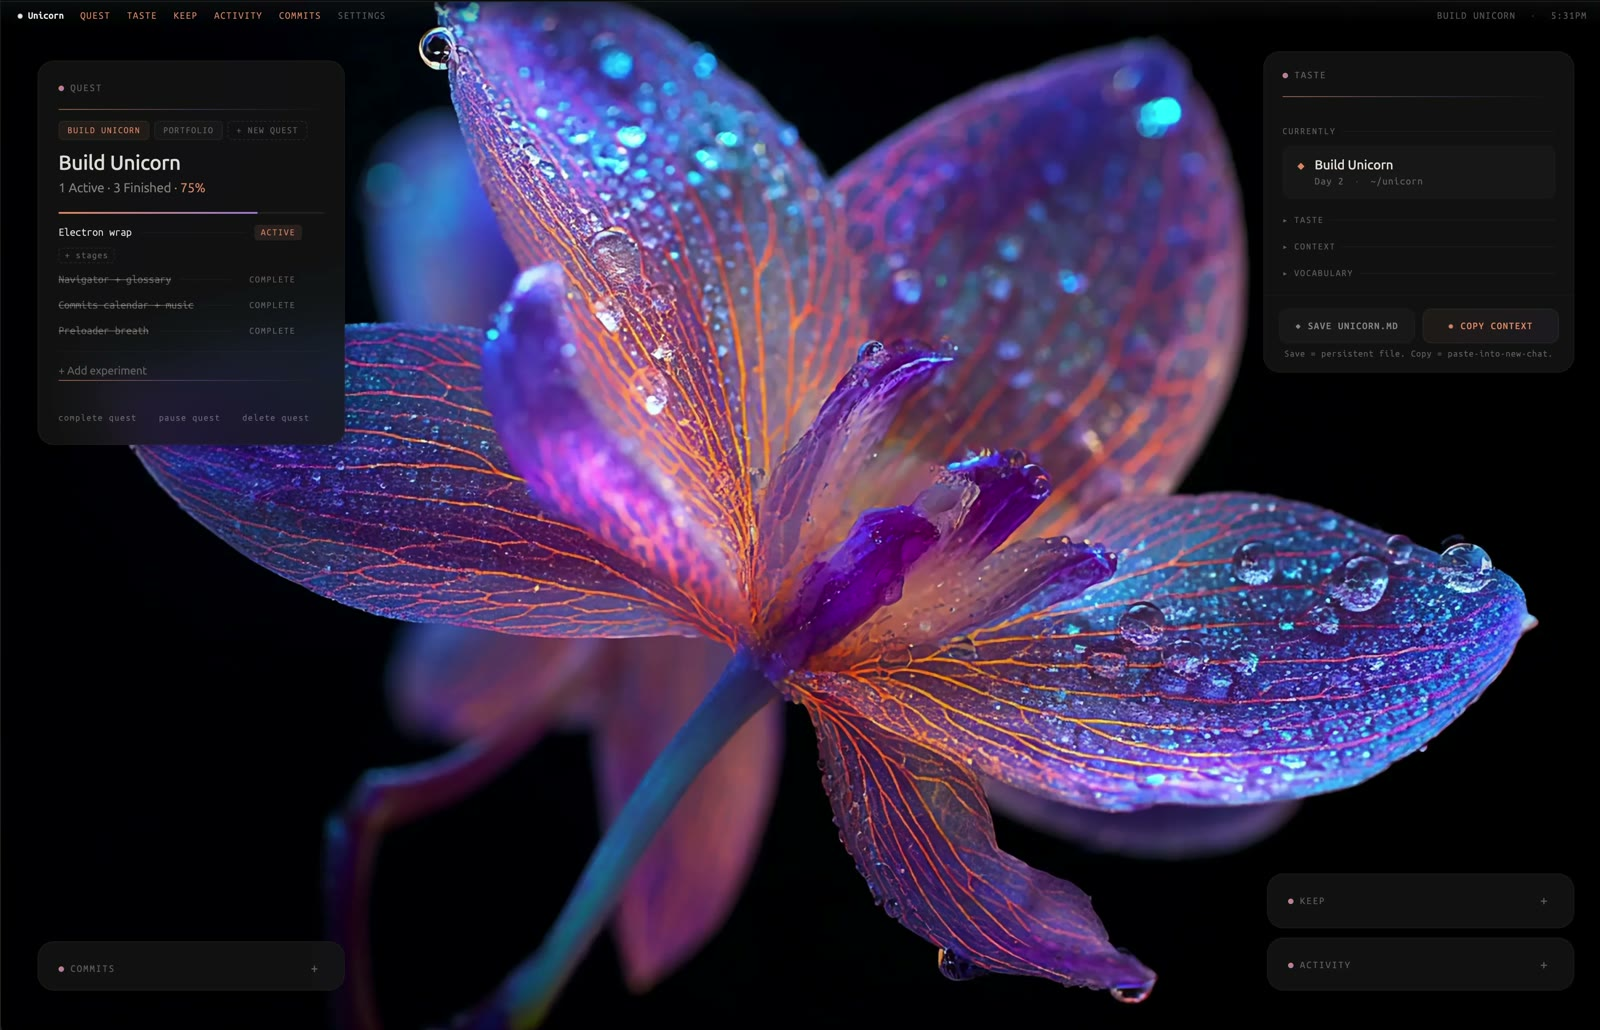
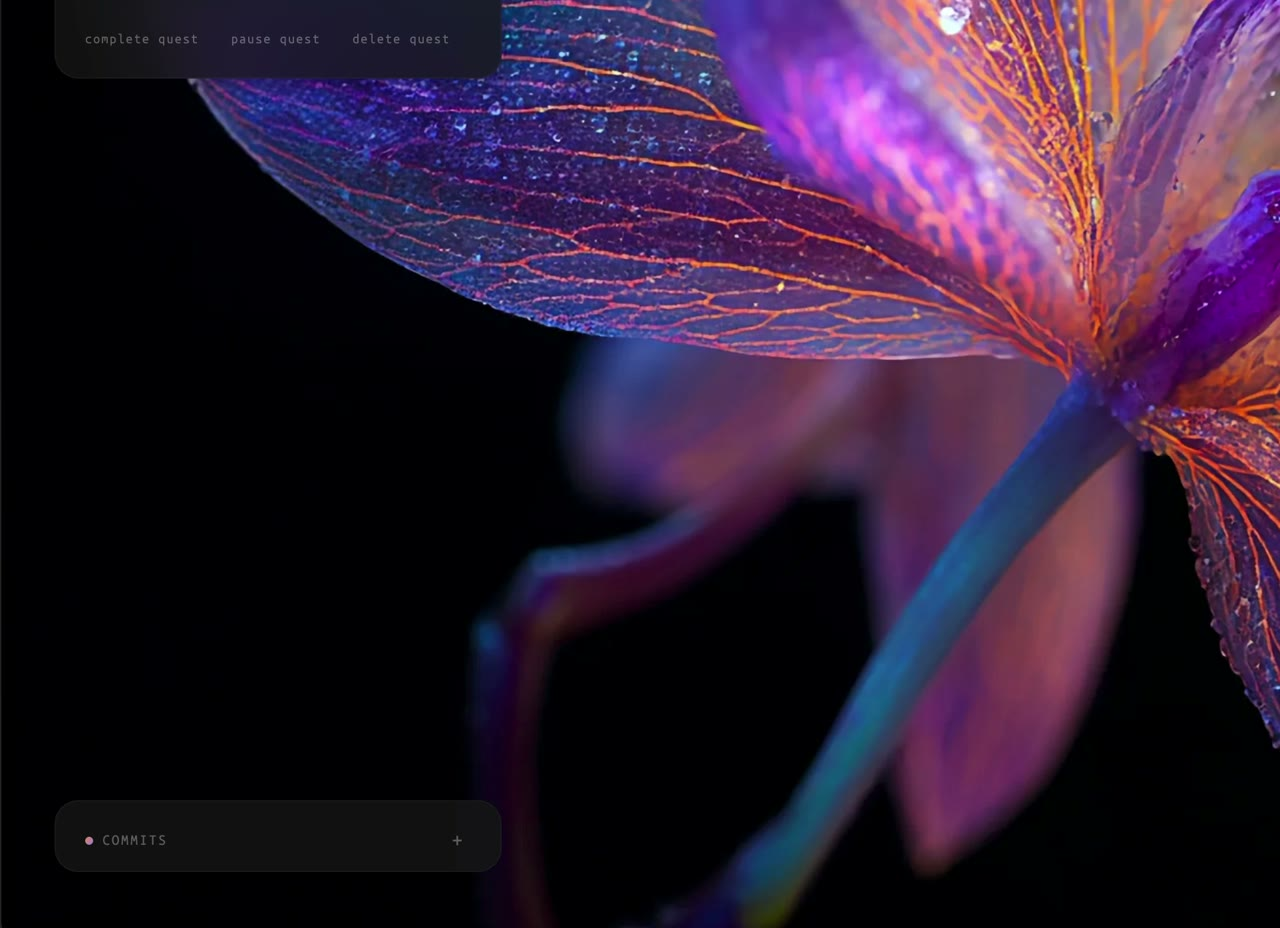
✢ Deck slides 1-8: arrow hint slide-1 only (both arrows), tighter slide-1/2 spacing, slide-2 video reframed + gradient clause, slide-3 audio toggle, slide-4/5 image crops, slide-7 eyebrow to top + image zoomed out, slide-8 keep clip recut (bottom-left, first 3s trimmed)

diff --git a/deck/index.html b/deck/index.html
@@ -105,10 +105,17 @@
   .reveal .progress{ color:var(--peach); height:3px; }
   .reveal .slide-number{ background:transparent!important; color:var(--t3);
        font-family:var(--f); font-size:13px; right:26px; bottom:20px; }
-  .kbd{ position:fixed; left:0; right:0; bottom:18px; text-align:center; z-index:40;
-        font-family:var(--f); font-size:12px; letter-spacing:0.22em; text-transform:uppercase;
-        color:var(--t3); pointer-events:none; }
-  .kbd span{ color:var(--peach); }
+  .kbd{ font-family:var(--f); font-size:13px; letter-spacing:0.22em; text-transform:uppercase;
+        color:var(--t3); margin:10px 0 0; }
+  .kbd .a{ color:var(--peach); }
+  .reveal .slides > section:first-child .s{ gap:26px; }
+  .reveal .slides > section:first-child .px{ margin-bottom:16px; }
+  .reveal .slides > section:nth-child(2) .s{ gap:34px; }
+  .snd{ position:absolute; right:14px; bottom:14px; z-index:4; display:inline-flex; align-items:center;
+        gap:7px; padding:9px 15px; border:0; border-radius:100px; cursor:pointer;
+        background:var(--glow); color:#140f1c; font-family:var(--f);
+        font-size:10px; font-weight:700; text-transform:uppercase; letter-spacing:0.16em; }
+  .snd svg{ width:13px; height:13px; display:block; }
 
   @media print{
     html,body,.reveal,.reveal .slides{ background:var(--void)!important; }
@@ -120,7 +127,7 @@
       width:100%!important; min-height:760px!important; page-break-after:always; break-after:page;
       -webkit-print-color-adjust:exact!important; print-color-adjust:exact!important; }
     .m::after{ display:none!important; }
-    .reveal .progress,.reveal .backgrounds,.reveal .slide-number,.kbd{ display:none!important; }
+    .reveal .progress,.reveal .backgrounds,.reveal .slide-number,.kbd,.snd{ display:none!important; }
   }
 </style>
 </head>
@@ -138,6 +145,7 @@
       <h1>Unicorn</h1>
       <p class="lede">A creative OS for designers experimenting with code. It runs beside Claude&nbsp;Code and holds the reasoning around your work, so it does not <em>evaporate</em>.</p>
       <p class="foot">Ivy Grzybowski &nbsp;·&nbsp; Design Technologist &nbsp;·&nbsp; capstone</p>
+      <p class="kbd"><span class="a">&larr;</span> use your arrow keys <span class="a">&rarr;</span></p>
     </div>
   </section>
 
@@ -145,8 +153,8 @@
   <section>
     <div class="s">
       <p class="wq acc">✷ the hook</p>
-      <figure class="m" style="height:440px"><video src="media/hero.mp4" poster="media/hero.jpg" data-autoplay muted loop playsinline preload="metadata"></video></figure>
-      <p class="note">A <em>hook</em> is a small script that runs the moment a Claude Code session starts. Type <em>unicorn</em> and it prints the mascot and loads your context, so the agent begins already knowing where you were.</p>
+      <figure class="m" style="height:440px"><video src="media/hero.mp4" poster="media/hero.jpg" data-autoplay muted loop playsinline preload="metadata" style="object-position:50% 0%; transform:scale(1.045); transform-origin:50% 0%"></video></figure>
+      <p class="note">A <em>hook</em> is a small script that runs the moment a Claude Code session starts. Type <em>unicorn</em> and it prints the mascot and loads your context, so <span class="grad">the agent begins already knowing where you were</span>.</p>
     </div>
   </section>
 
@@ -159,7 +167,7 @@
         <p class="by">Boris Cherny, creator of Claude Code.</p>
         <p class="lede">A sneak peek is the <em>method</em>, not an apology.</p>
       </div>
-      <figure class="m"><video src="media/boris.mp4" poster="media/boris.jpg" data-autoplay muted loop playsinline preload="metadata"></video></figure>
+      <figure class="m"><video id="boris-v" src="media/boris.mp4" poster="media/boris.jpg" data-autoplay muted loop playsinline preload="metadata"></video><button class="snd" data-v="boris-v" type="button" aria-pressed="false"><svg viewBox="0 0 24 24" fill="none" stroke="currentColor" stroke-width="2" stroke-linecap="round" stroke-linejoin="round"><path d="M11 5 6 9H2v6h4l5 4z"/><path d="M15.5 8.5a5 5 0 0 1 0 7"/><path d="M19 5a9 9 0 0 1 0 14"/></svg><span>audio</span></button></figure>
     </div></div>
   </section>
 
@@ -171,7 +179,7 @@
         <h2>Where is <em>Product Design</em> going?</h2>
         <p class="lede">I reached out on LinkedIn to Design Engineers who had been on <em>the Dive Club</em>, the best Product Design podcast out there. Four of them said yes.</p>
       </div>
-      <figure class="m img"><img src="media/dive-club.jpg" alt="" style="object-position:0% 50%" /></figure>
+      <figure class="m img"><img src="media/dive-club.jpg" alt="" style="object-position:0% 50%; transform:scale(1.05); transform-origin:0% 50%" /></figure>
     </div></div>
   </section>
 
@@ -186,7 +194,7 @@
           <li><span class="n">03</span><div><div class="t">Context evaporates. It has to live outside your head.</div><div class="s2">Everyone keeps a fragile memory of their own.</div></div></li>
         </ul>
       </div>
-      <figure class="m img"><img src="media/creative-os.jpg" alt="" /></figure>
+      <figure class="m img"><img src="media/creative-os.jpg" alt="" style="object-position:100% 0%; transform:scale(1.6); transform-origin:100% 0%" /></figure>
     </div></div>
   </section>
 
@@ -205,10 +213,10 @@
   <section>
     <div class="s"><div class="split">
       <div class="col">
+        <p class="wq acc">✷ a Design Engineer, anonymized</p>
         <blockquote class="pull">&ldquo;I keep a vault. I treat it as my long term memory. If you have worked with AI at all, you know <span class="grad">context is the huge thing</span>.&rdquo;</blockquote>
-        <p class="wq">a Design Engineer, anonymized</p>
       </div>
-      <figure class="m img"><img src="media/keep-panel.jpg" alt="" style="object-position:50% 0%" /></figure>
+      <figure class="m img"><img src="media/keep-panel.jpg" alt="" style="object-fit:contain" /></figure>
     </div></div>
   </section>
 
@@ -297,13 +305,22 @@
   </section>
 
 </div></div>
-<div class="kbd" aria-hidden="true">use your <span>arrow keys</span> &rarr;</div>
 <script src="https://cdnjs.cloudflare.com/ajax/libs/reveal.js/5.1.0/reveal.min.js"></script>
 <script>
   Reveal.initialize({
     hash:true, controls:false, progress:true, slideNumber:'c/t',
     transition:'fade', transitionSpeed:'fast',
     width:1280, height:800, margin:0.07, center:true,
+  });
+  document.querySelectorAll('.snd').forEach(function(b){
+    var v=document.getElementById(b.dataset.v); if(!v) return;
+    b.addEventListener('click',function(e){
+      e.stopPropagation();
+      v.muted=!v.muted;
+      if(!v.muted){ v.play().catch(function(){}); }
+      b.setAttribute('aria-pressed', String(!v.muted));
+      b.querySelector('span').textContent = v.muted ? 'audio' : 'audio on';
+    });
   });
 </script>
 </body>